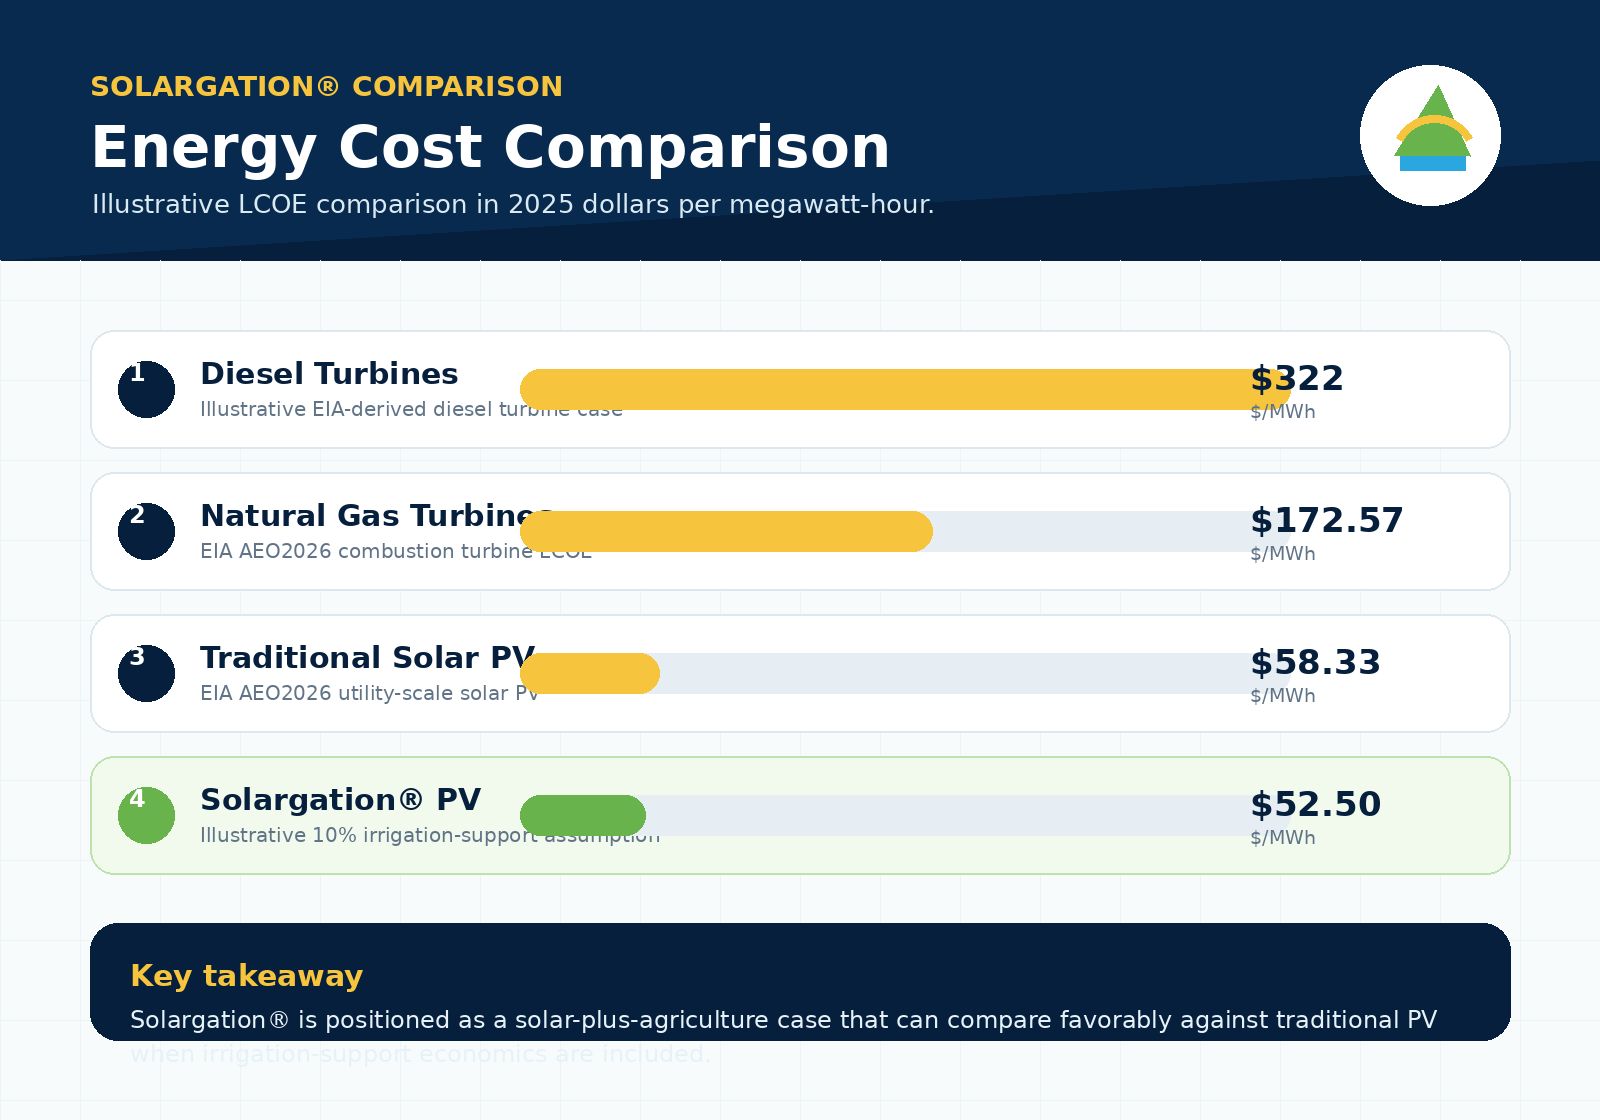
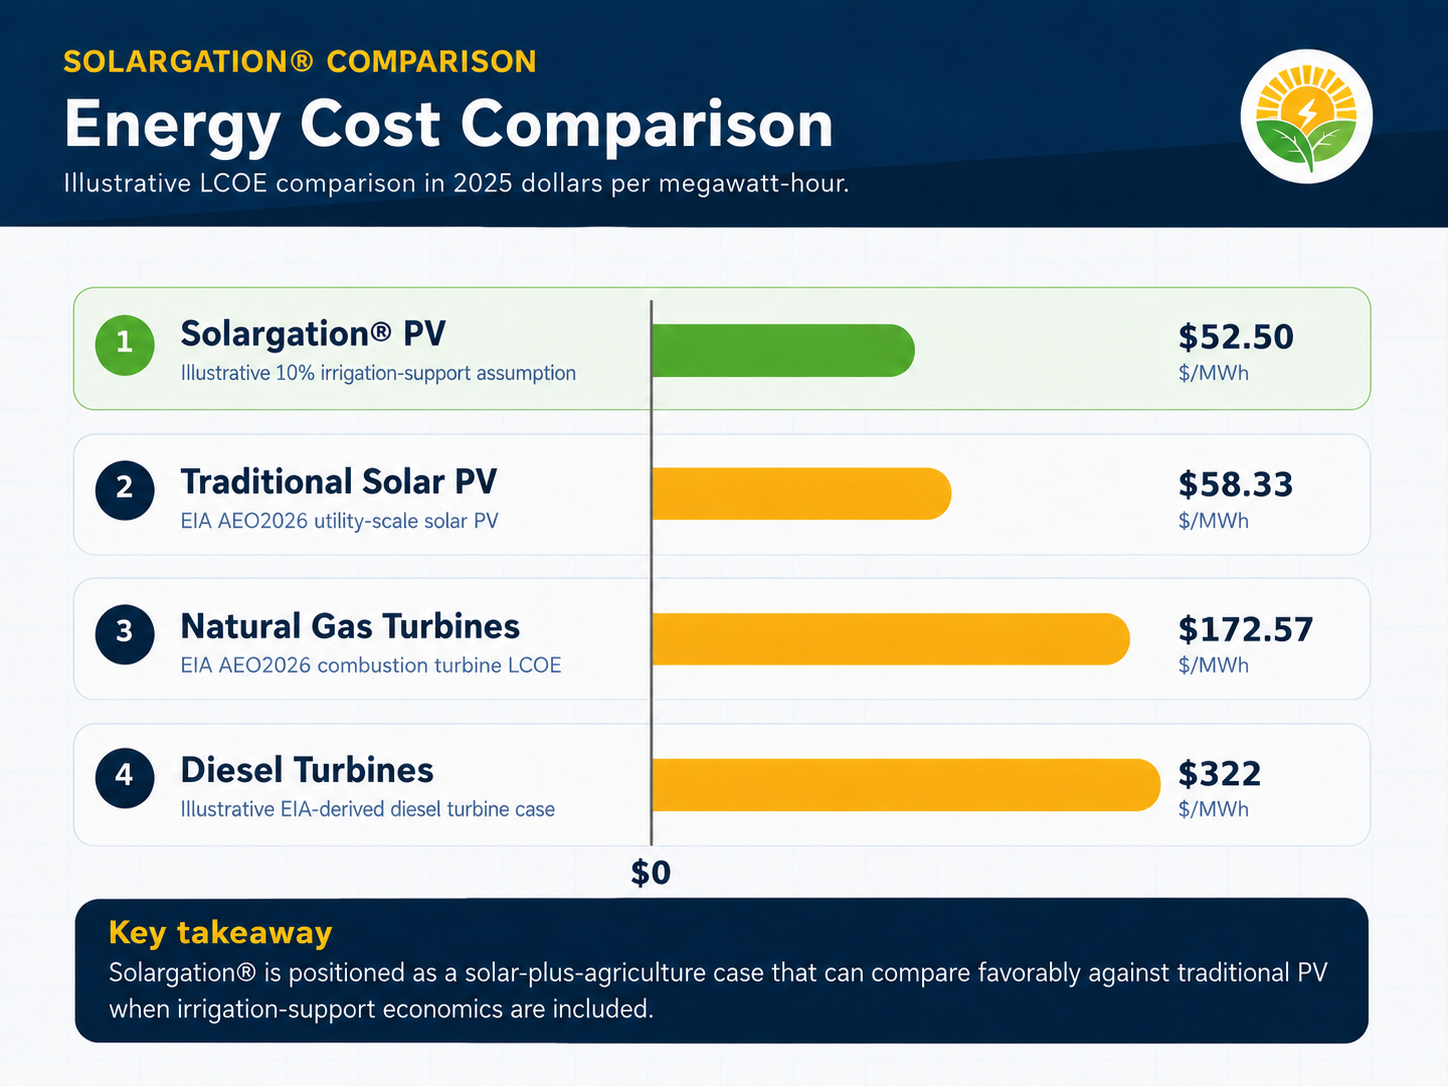
image corrections
water use as well

diff --git a/wateruse.html b/wateruse.html
@@ -1138,7 +1138,7 @@ section {
 </div>
 <div class="result">
 <b>
-          198
+          -198
          </b>
 <span>
           gal/MWh
